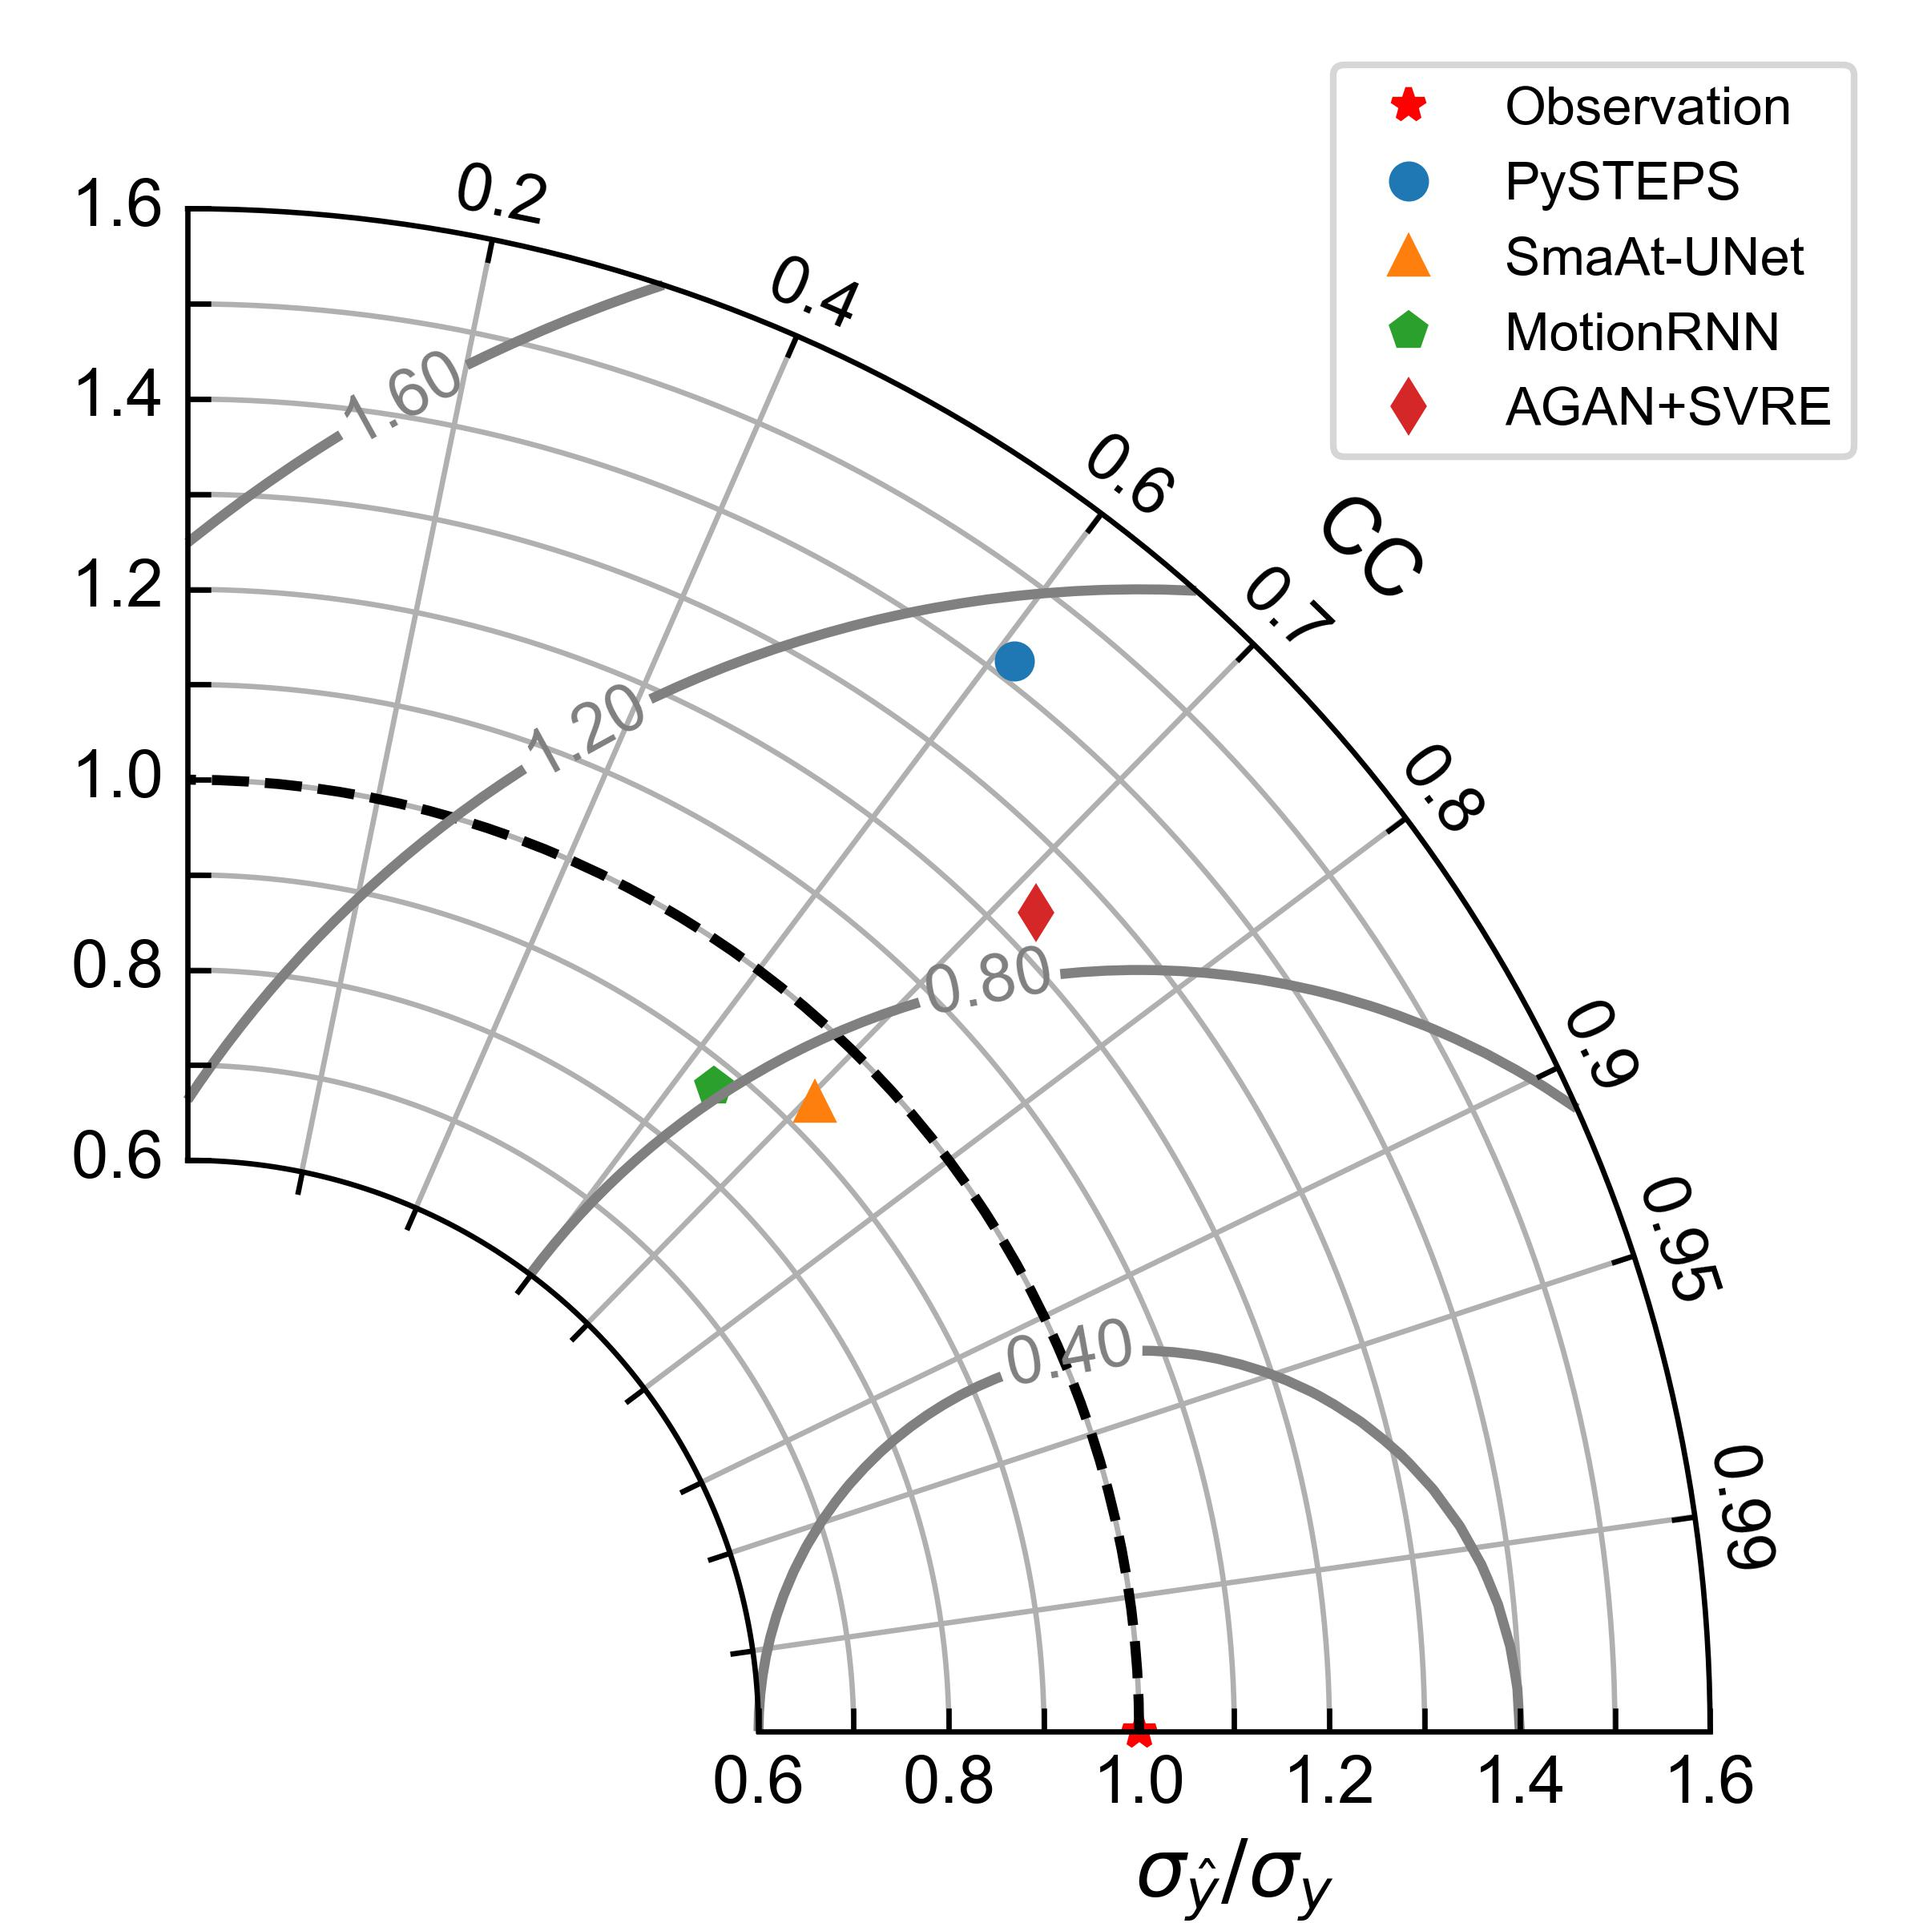
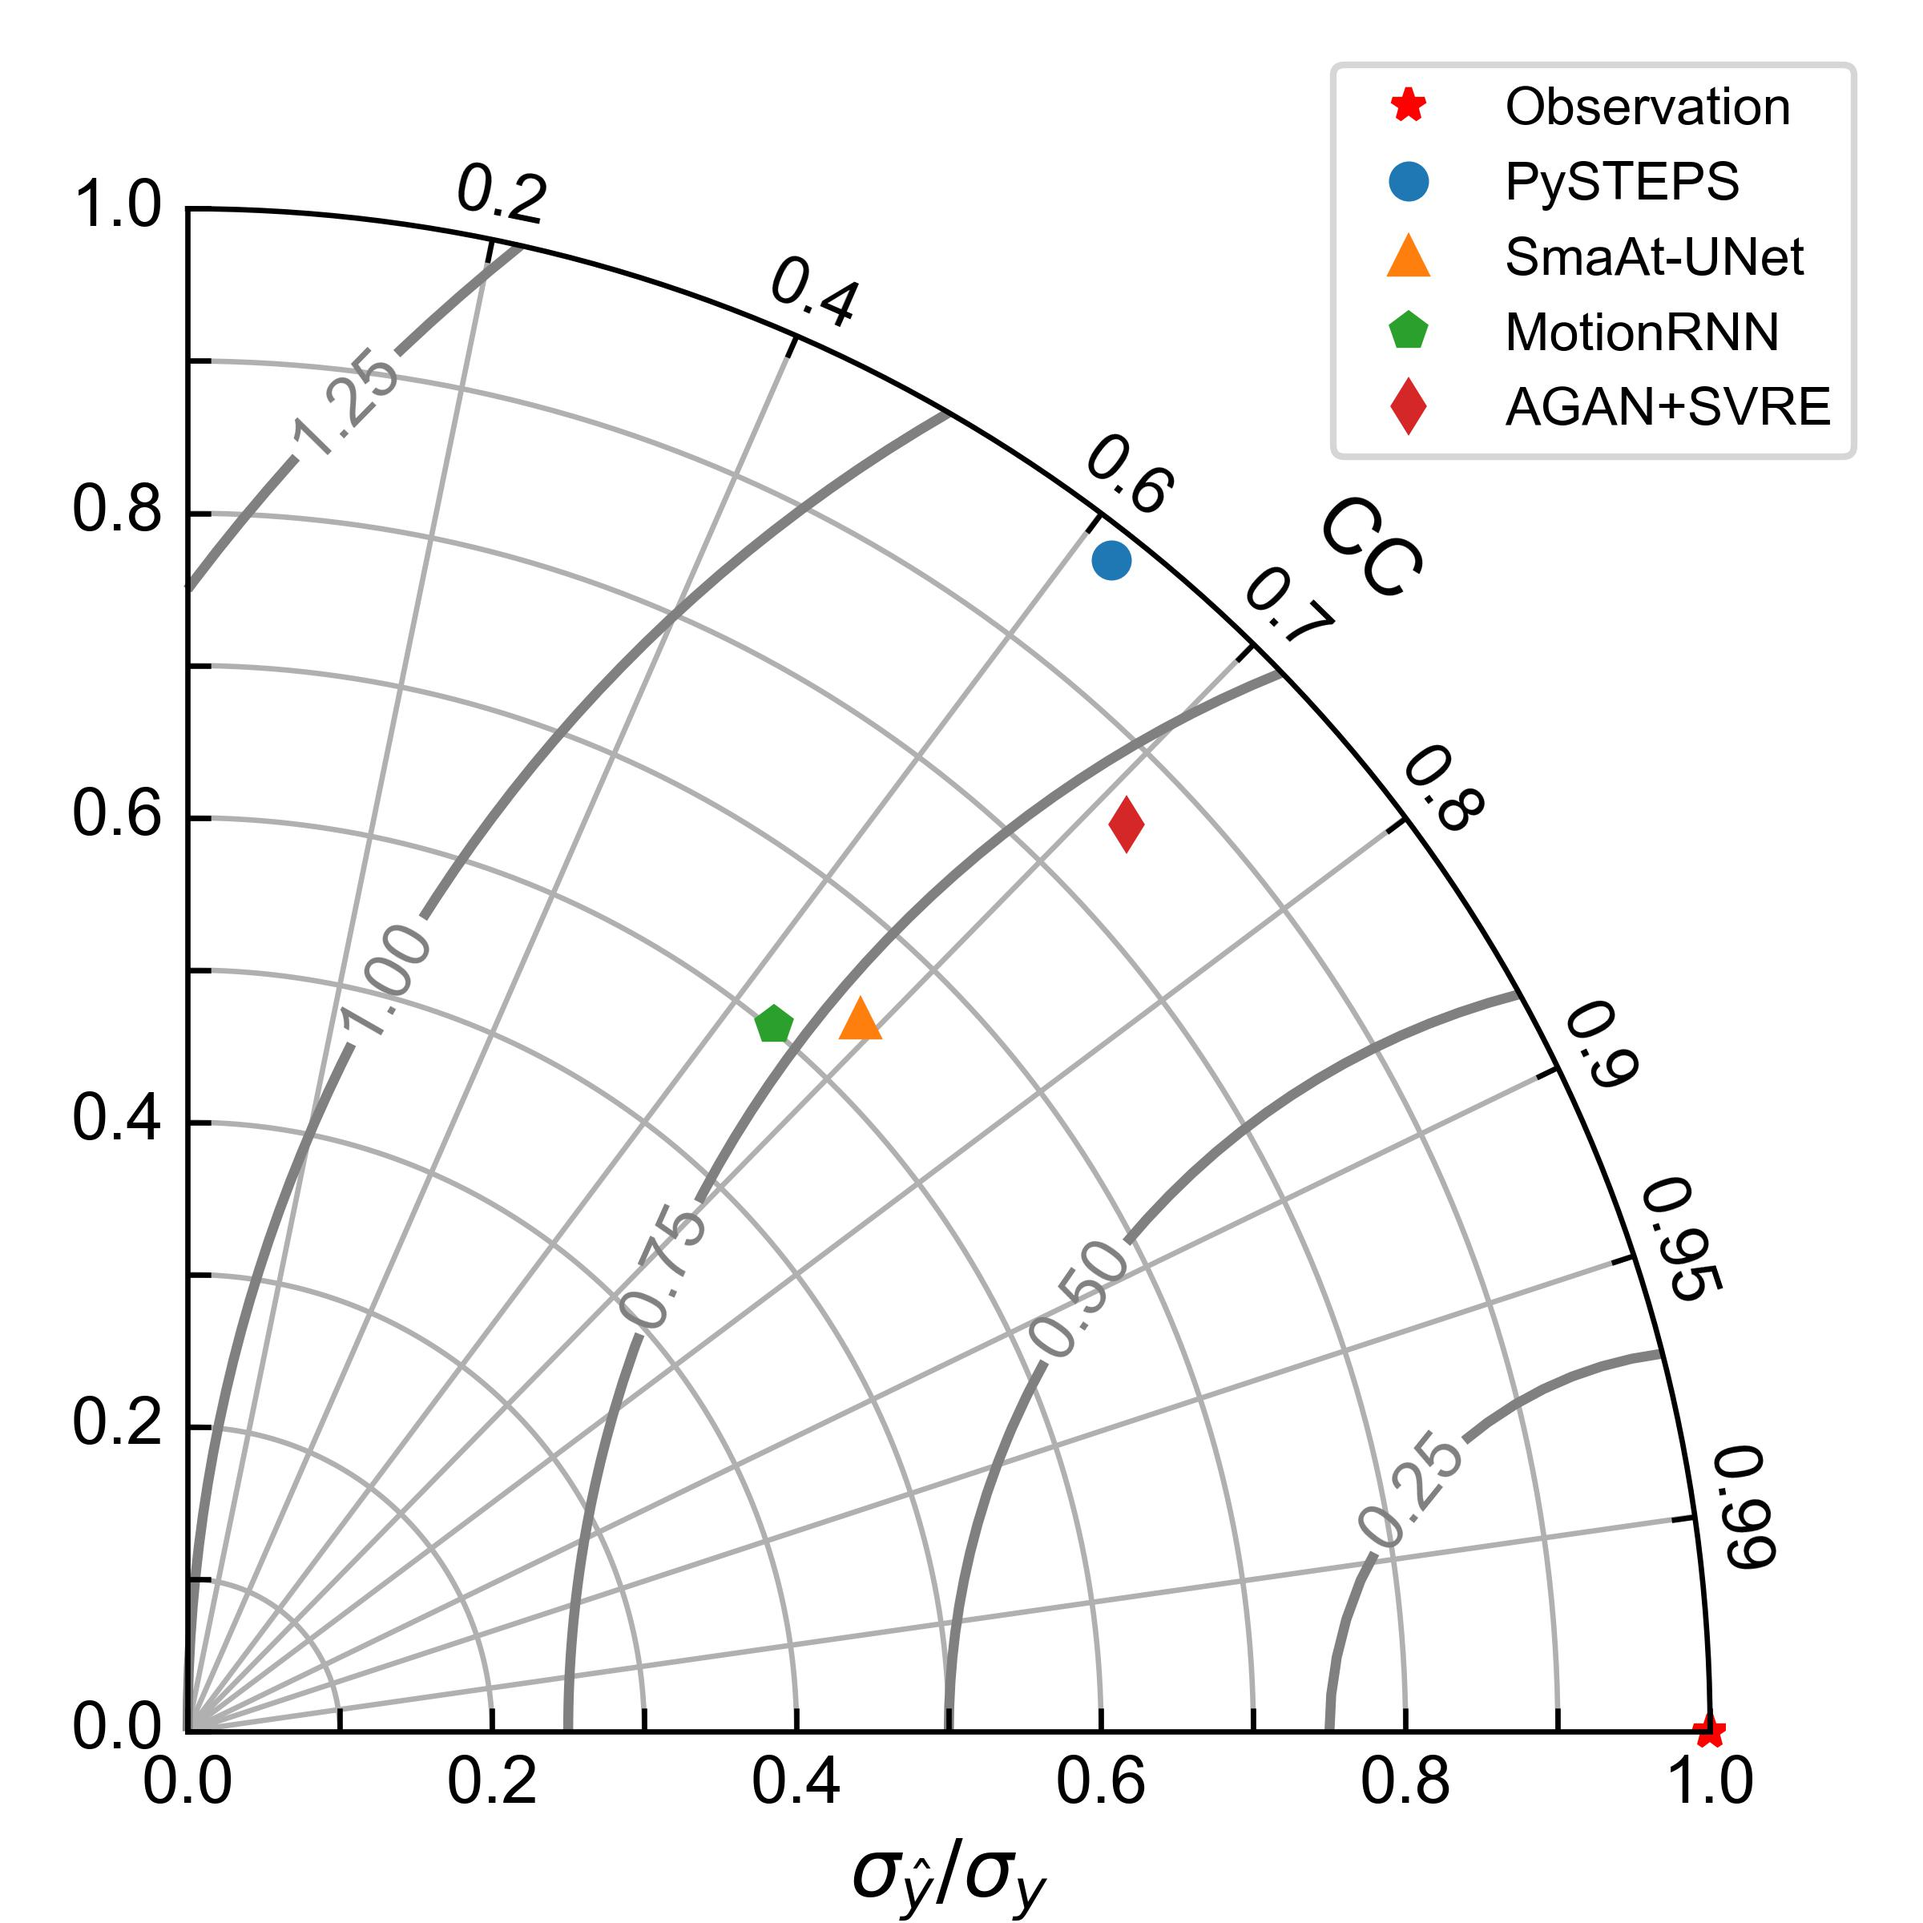
Update Taylor diagrams

diff --git a/analysis/plot_talyor_diagram.py b/analysis/plot_talyor_diagram.py
@@ -21,9 +21,9 @@ def plot_taylor_diagram(root: str, paths: list, models: list, target_path: str, 
         pred = torch.load(os.path.join(root, path, 'pred', 'pred.pt'))
         pred_60min = pred[0, 8, 0]
         stddev_60min = torch.std(pred_60min).numpy()
+        corrcoef_60min = torch.corrcoef(torch.stack([truth_60min.flatten(), pred_60min.flatten()]))[0, 1].numpy()
         # if i == 3:
         #     stddev_60min *= 1.2
-        corrcoef_60min = torch.corrcoef(torch.stack([truth_60min.flatten(), pred_60min.flatten()]))[0, 1].numpy()
         taylor_diagram_60min.add_sample(stddev_60min / ref_std_60min, corrcoef_60min, 
                                         ms=5, ls='', marker=markers[i],
                                         mfc=colors[i], mec=colors[i], label=models[i])
@@ -32,7 +32,7 @@ def plot_taylor_diagram(root: str, paths: list, models: list, target_path: str, 
     taylor_diagram_60min.add_grid()
 
     # Add RMS contours, and label them
-    contours_60 = taylor_diagram_60min.add_contours(colors='0.5')
+    contours_60 = taylor_diagram_60min.add_contours(colors='grey')
     plt.clabel(contours_60, inline=1, fontsize='medium', fmt='%.2f')
     
     # Add a figure legend
@@ -50,16 +50,16 @@ if __name__ == '__main__':
     plot_taylor_diagram('results', 
                         ['AttnUNet/sample_0', 'AttnUNet_SVRE/sample_0', 'AttnUNet_GA/sample_0', 'AttnUNet_GASVRE/sample_0'], 
                         ['AGAN(g)', 'AGAN(g)+SVRE', 'AGAN', 'AGAN+SVRE'], 
-                        'img/taylor_ablation_sample_0.jpg', std_range=[0.6, 1.6], std_num=6, colors=colors.colors)
+                        'img/taylor_ablation_sample_0.jpg', std_range=[0, 1], std_num=6, colors=colors.colors)
     plot_taylor_diagram('results',
                         ['AttnUNet/sample_1', 'AttnUNet_SVRE/sample_1', 'AttnUNet_GA/sample_1', 'AttnUNet_GASVRE/sample_1'],
                         ['AGAN(g)', 'AGAN(g)+SVRE', 'AGAN', 'AGAN+SVRE'],
-                        'img/taylor_ablation_sample_1.jpg', std_range=[0.6, 1.6], std_num=6, colors=colors.colors)
+                        'img/taylor_ablation_sample_1.jpg', std_range=[0, 1], std_num=6, colors=colors.colors)
     plot_taylor_diagram('results', 
                         ['PySTEPS/sample_0', 'SmaAt_UNet/sample_0', 'MotionRNN/sample_0', 'AttnUNet_GASVRE/sample_0'], 
                         ['PySTEPS', 'SmaAt-UNet', 'MotionRNN', 'AGAN+SVRE'],
-                        'img/taylor_comparison_sample_0.jpg', std_range=[0.6, 1.6], std_num=6, colors=colors.colors)
+                        'img/taylor_comparison_sample_0.jpg', std_range=[0, 1], std_num=6, colors=colors.colors)
     plot_taylor_diagram('results',
                         ['PySTEPS/sample_1', 'SmaAt_UNet/sample_1', 'MotionRNN/sample_1', 'AttnUNet_GASVRE/sample_1'],
                         ['PySTEPS', 'SmaAt-UNet', 'MotionRNN', 'AGAN+SVRE'],
-                        'img/taylor_comparison_sample_1.jpg', std_range=[0.6, 1.6], std_num=6, colors=colors.colors)
+                        'img/taylor_comparison_sample_1.jpg', std_range=[0, 1], std_num=6, colors=colors.colors)

diff --git a/analysis/taylor_diagram.py b/analysis/taylor_diagram.py
@@ -107,7 +107,7 @@ class TaylorDiagram(object):
         l, = self.ax.plot([0], self.std_ref, 'r*', ls='', ms=5, label=label)
         theta = np.linspace(0, self.theta_max)
         r = np.zeros_like(theta) + self.std_ref
-        self.ax.plot(theta, r, 'k--', label='_')
+        # self.ax.plot(theta, r, 'k--', label='_')
 
         # ------collect sample points for latter use (e.g. legend)
         self.samplePoints = [l]
